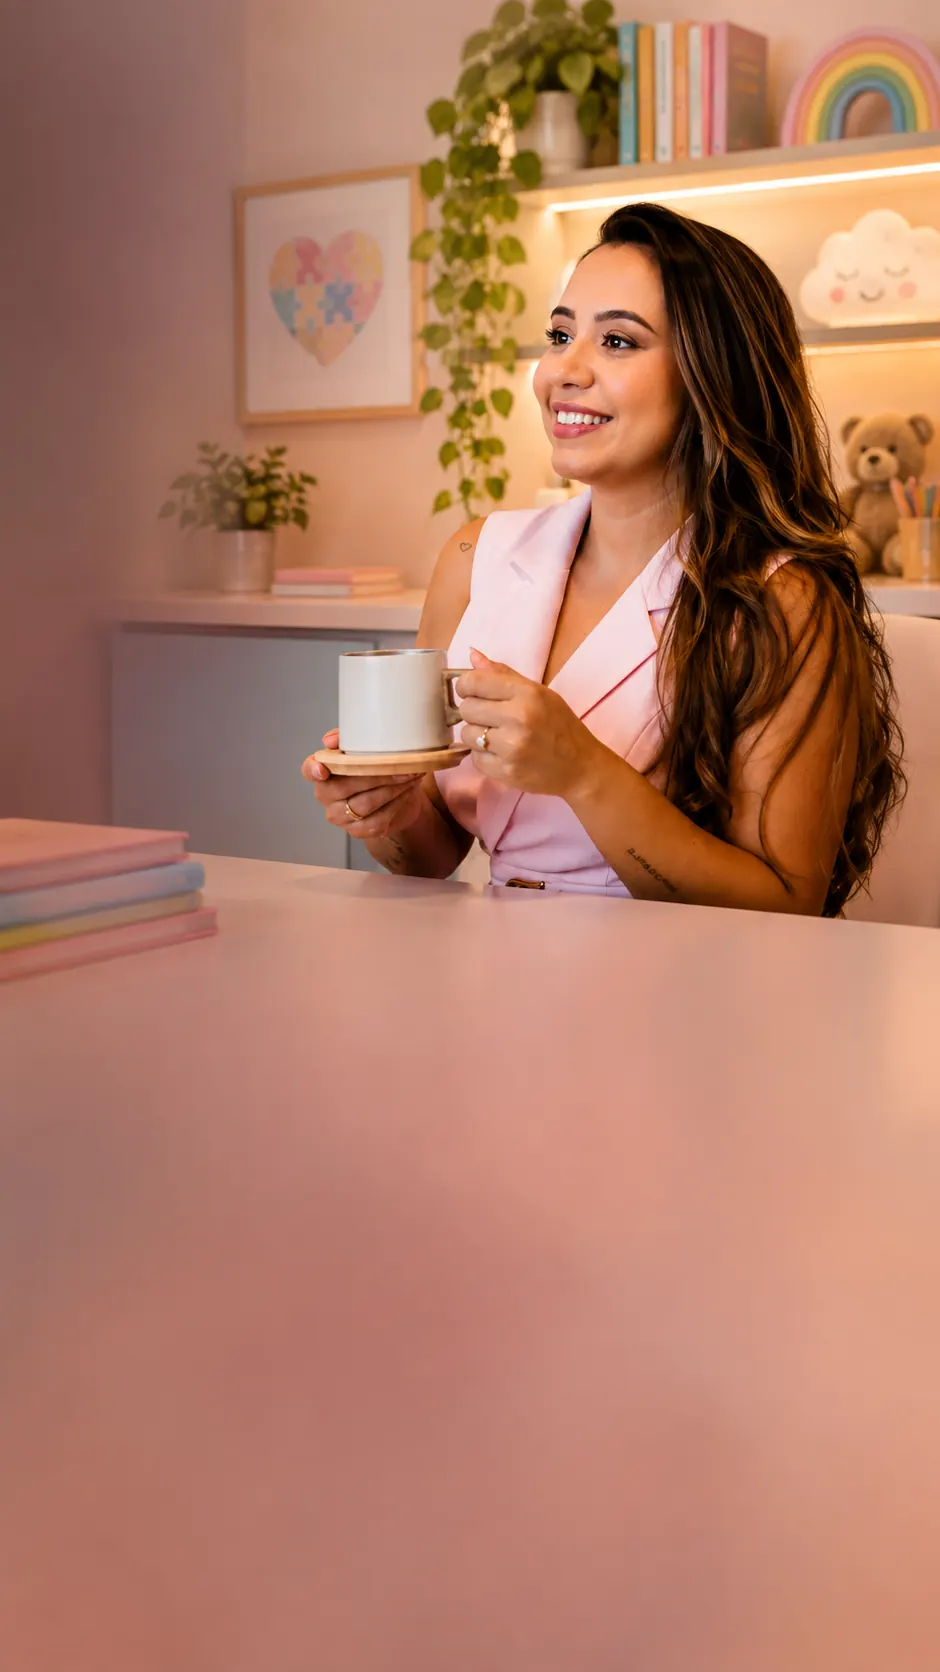
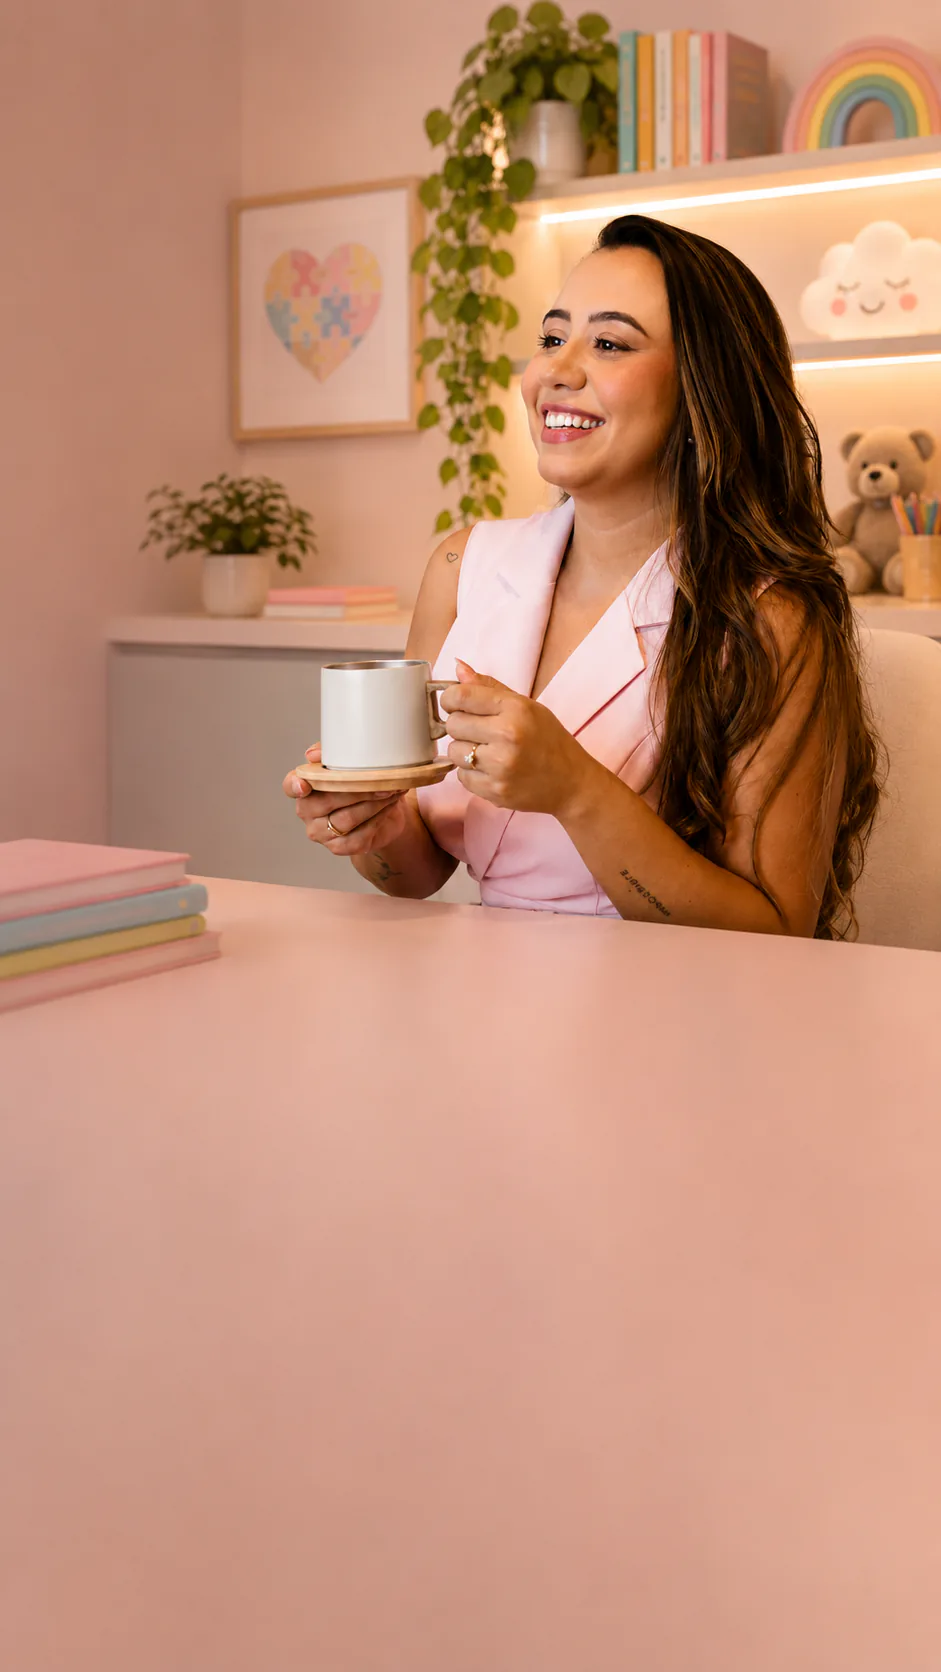
Atualiza a foto do hero mobile e desce a caixa de texto sobre a Aline
A cliente achou a foto anterior pouco parecida e pediu para descer o
bloco de texto/CTAs, que cobria parte dela. Troca a hero-mobile pela
nova (convertida para WebP), resume o subtítulo para uma linha e
recalibra o véu de contraste, a faixa de dissolução e os espaçamentos
para o bloco assentar mais perto do rodapé sem perder legibilidade.

diff --git a/src/sections/Hero.tsx b/src/sections/Hero.tsx
@@ -72,9 +72,18 @@ export function Hero({ introReady }: HeroProps) {
 
   return (
     /*
-      O padding inferior é maior que o superior de propósito: com
-      `items-center`, essa diferença é o que ergue o bloco de texto acima
-      do meio da tela sem encostar no header fixo.
+      De `lg` para cima o padding inferior é maior que o superior de
+      propósito: com `items-center`, essa diferença é o que ergue o bloco
+      de texto acima do meio da tela sem encostar no header fixo.
+
+      No celular a regra se inverte. Com `items-end` quem manda é só o
+      padding de baixo, e cada pixel tirado dele é um pixel que o bloco
+      inteiro desce — ou seja, um pixel a menos de texto sobre a Aline.
+      O piso deixou de ser o botão flutuante do WhatsApp: como ele vive
+      em `z-70`, sempre por cima do conteúdo, um leve encavalamento no
+      canto inferior direito não quebra nada — só o botão passa a
+      desenhar por cima do fim do CTA secundário. O `env()` preserva a
+      mesma folga em aparelhos com barra de gestos.
     */
     <section
       ref={rootRef}
@@ -86,12 +95,21 @@ export function Hero({ introReady }: HeroProps) {
         No celular a foto é vertical e já foi composta para isto: a Aline
         ocupa o topo e a bancada rosa fica livre embaixo. O conteúdo, então,
         desce para o rodapé (`items-end`) e a logo sobe sozinha para o canto
-        superior esquerdo — texto sobre o vazio da foto, sem cobrir ninguém.
+        superior esquerdo — o texto procura o vazio da foto.
+
+        A aresta da bancada cai por volta de 56% da tela, o que deixa ~44%
+        de área livre; o bloco (título de quatro linhas, subtítulo, quatro
+        selos e dois botões) pede ~60%. Ou seja: o texto encosta na Aline
+        por aritmética, não por descuido. O que dá para fazer — e está
+        feito — é gastar o mínimo possível acima da aresta: padding
+        inferior no limite do botão flutuante e intervalos internos um
+        passo mais curtos. Quem quiser o bloco inteiro abaixo da linha
+        precisa de outra foto, com mais bancada.
 
         De `lg` para cima volta a foto horizontal, com a Aline à direita, e
         o bloco inteiro recentraliza como antes.
       */
-      className="relative isolate flex min-h-svh items-end overflow-hidden pt-20 pb-28 sm:pb-32 lg:items-center lg:pt-32 lg:pb-40 short:pt-24 short:pb-16"
+      className="relative isolate flex min-h-svh items-end overflow-hidden pt-20 pb-[calc(3rem+env(safe-area-inset-bottom))] sm:pb-32 lg:items-center lg:pt-32 lg:pb-40 short:pt-24 short:pb-16"
     >
       {/*
         Fundo de capa: a foto já traz o cenário e a Aline à direita.
@@ -127,8 +145,15 @@ export function Hero({ introReady }: HeroProps) {
 
         {/* Dissolve a foto no branco da próxima seção — evita o corte seco.
             Faixa alta com curva atrasada: a emenda some por completo sem
-            que o claro suba até os CTAs (texto branco) em telas baixas. */}
-        <div className="hero-fade-bottom absolute inset-x-0 bottom-0 h-36 sm:h-44 lg:h-56 short:h-24" />
+            que o claro suba até os CTAs (texto branco) em telas baixas.
+
+            No celular a faixa encurtou de 9rem para 7rem porque os botões
+            desceram: com 9rem, a base do CTA secundário (texto branco em
+            fundo translúcido) caía onde o degradê já tem ~20% de branco.
+            Em 7rem esse mesmo ponto tem ~9%, e a emenda continua invisível
+            — ali embaixo a foto é a bancada lisa, a superfície mais fácil
+            de dissolver da página. */}
+        <div className="hero-fade-bottom absolute inset-x-0 bottom-0 h-28 sm:h-44 lg:h-56 short:h-24" />
       </div>
 
       {/*
@@ -217,9 +242,21 @@ export function Hero({ introReady }: HeroProps) {
             {rich(HERO.headline)}
           </h1>
 
+          {/*
+            Os intervalos deste bloco (12 / 16 / 20px) são um passo mais
+            curtos do que os de `sm` para cima. O bloco está ancorado no
+            rodapé: encurtar o miolo não empurra nada para baixo, faz o
+            topo descer — são ~14px de foto devolvidos à Aline sem tirar
+            uma palavra do texto nem mexer no corpo das fontes.
+
+            A escada 12 < 16 < 20 é o que preserva a hierarquia: título e
+            subtítulo lêem-se como um par, e cada degrau maior anuncia um
+            grupo mais distante. Achatar tudo num valor só juntaria selos
+            e botões numa mancha só.
+          */}
           <p
             data-hero-item
-            className="mt-4 max-w-lg text-[0.9375rem] leading-[1.65] text-white/90 [--rich-accent:var(--color-blush-200)] [--rich-weight:500] sm:mt-6 sm:text-lg sm:leading-[1.7] xl:max-w-xl short:mt-4 short:text-base"
+            className="mt-3 max-w-lg text-[0.9375rem] leading-[1.65] text-white/90 [--rich-accent:var(--color-blush-200)] [--rich-weight:500] sm:mt-6 sm:text-lg sm:leading-[1.7] xl:max-w-xl short:mt-4 short:text-base"
           >
             {rich(HERO.subheadline)}
           </p>
@@ -227,7 +264,7 @@ export function Hero({ introReady }: HeroProps) {
           {/* Badges de credibilidade */}
           <ul
             data-hero-item
-            className="mt-5 flex flex-wrap gap-2 sm:mt-7 sm:gap-2.5 short:mt-5"
+            className="mt-4 flex flex-wrap gap-2 sm:mt-7 sm:gap-2.5 short:mt-5"
             aria-label="Credenciais"
           >
             {HERO.badges.map((badge) => (
@@ -252,7 +289,7 @@ export function Hero({ introReady }: HeroProps) {
               dentro da faixa a última declarada prevalece. */}
           <div
             data-hero-item
-            className="mt-6 flex flex-col gap-2.5 sm:mt-9 sm:flex-row sm:flex-wrap sm:items-center sm:gap-3 short:mt-6"
+            className="mt-5 flex flex-col gap-2 sm:mt-9 sm:flex-row sm:flex-wrap sm:items-center sm:gap-3 short:mt-6"
           >
             <WhatsAppCta
               size="lg"

diff --git a/src/styles/index.css b/src/styles/index.css
@@ -505,18 +505,35 @@
     suficiente para o cabeçalho não sumir, e o fechamento acontece do meio
     para baixo, onde não há mais foto a preservar. A versão anterior
     começava em 0.58 e velava justamente o rosto.
+
+    O joelho fica em 55%, e não por estética: é onde passa a aresta da
+    bancada na foto. Acima dela está a Aline; abaixo, a superfície rosa
+    lisa — que é, medida na imagem, a região MAIS CLARA do quadro (luz
+    ~178/255 contra ~120 na altura do busto). Texto branco sobre ela sem
+    véu dá 2:1 de contraste. Daí o formato em S: quase transparente até
+    38%, subida curta entre 46% e 64%, e patamar alto no rodapé.
+
+    As paradas de 52% a 70% foram reforçadas quando o bloco de texto
+    desceu para o rodapé — o título saiu de cima do busto e caiu na
+    bancada, trocando um fundo médio por um claro. Nas alturas onde hoje
+    ficam título, selos e botões a conta fecha entre 4,3:1 e 7:1 sobre
+    branco. Em 38–46% a curva ficou mais leve que a anterior: é a faixa
+    do busto e dos braços, e ali cada centésimo a menos é foto da Aline
+    de volta ao ar.
   */
   background-image: linear-gradient(
     180deg,
     rgb(48 42 44 / 0.06) 0%,
     rgb(48 42 44 / 0.05) 12%,
     rgb(48 42 44 / 0.05) 26%,
-    rgb(48 42 44 / 0.08) 38%,
-    rgb(48 42 44 / 0.16) 48%,
-    rgb(48 42 44 / 0.3) 58%,
-    rgb(48 42 44 / 0.44) 68%,
-    rgb(48 42 44 / 0.56) 78%,
-    rgb(48 42 44 / 0.64) 88%,
+    rgb(48 42 44 / 0.07) 38%,
+    rgb(48 42 44 / 0.11) 46%,
+    rgb(48 42 44 / 0.2) 52%,
+    rgb(48 42 44 / 0.34) 58%,
+    rgb(48 42 44 / 0.44) 64%,
+    rgb(48 42 44 / 0.52) 70%,
+    rgb(48 42 44 / 0.58) 78%,
+    rgb(48 42 44 / 0.65) 88%,
     rgb(48 42 44 / 0.7) 100%
   );
 

diff --git a/src/constants/content.ts b/src/constants/content.ts
@@ -27,7 +27,7 @@ export const HERO = {
   // O selo de texto acima do título deu lugar à logo da marca.
   headline: "Por trás de cada **comportamento,** existe uma **emoção** precisando de **acolhimento.**",
   subheadline:
-    "Psicoterapia fundamentada na **Terapia Cognitivo-Comportamental (TCC)**. Um espaço seguro e acolhedor em Recife e online para todo o Brasil.",
+    "Psicoterapia infantojuvenil fundamentada na **Terapia Cognitivo-Comportamental (TCC)**.",
   badges: ["CRP 02/25892", "Abordagem TCC", "Online para todo o Brasil", "Presencial em Recife"],
 } as const;
 
